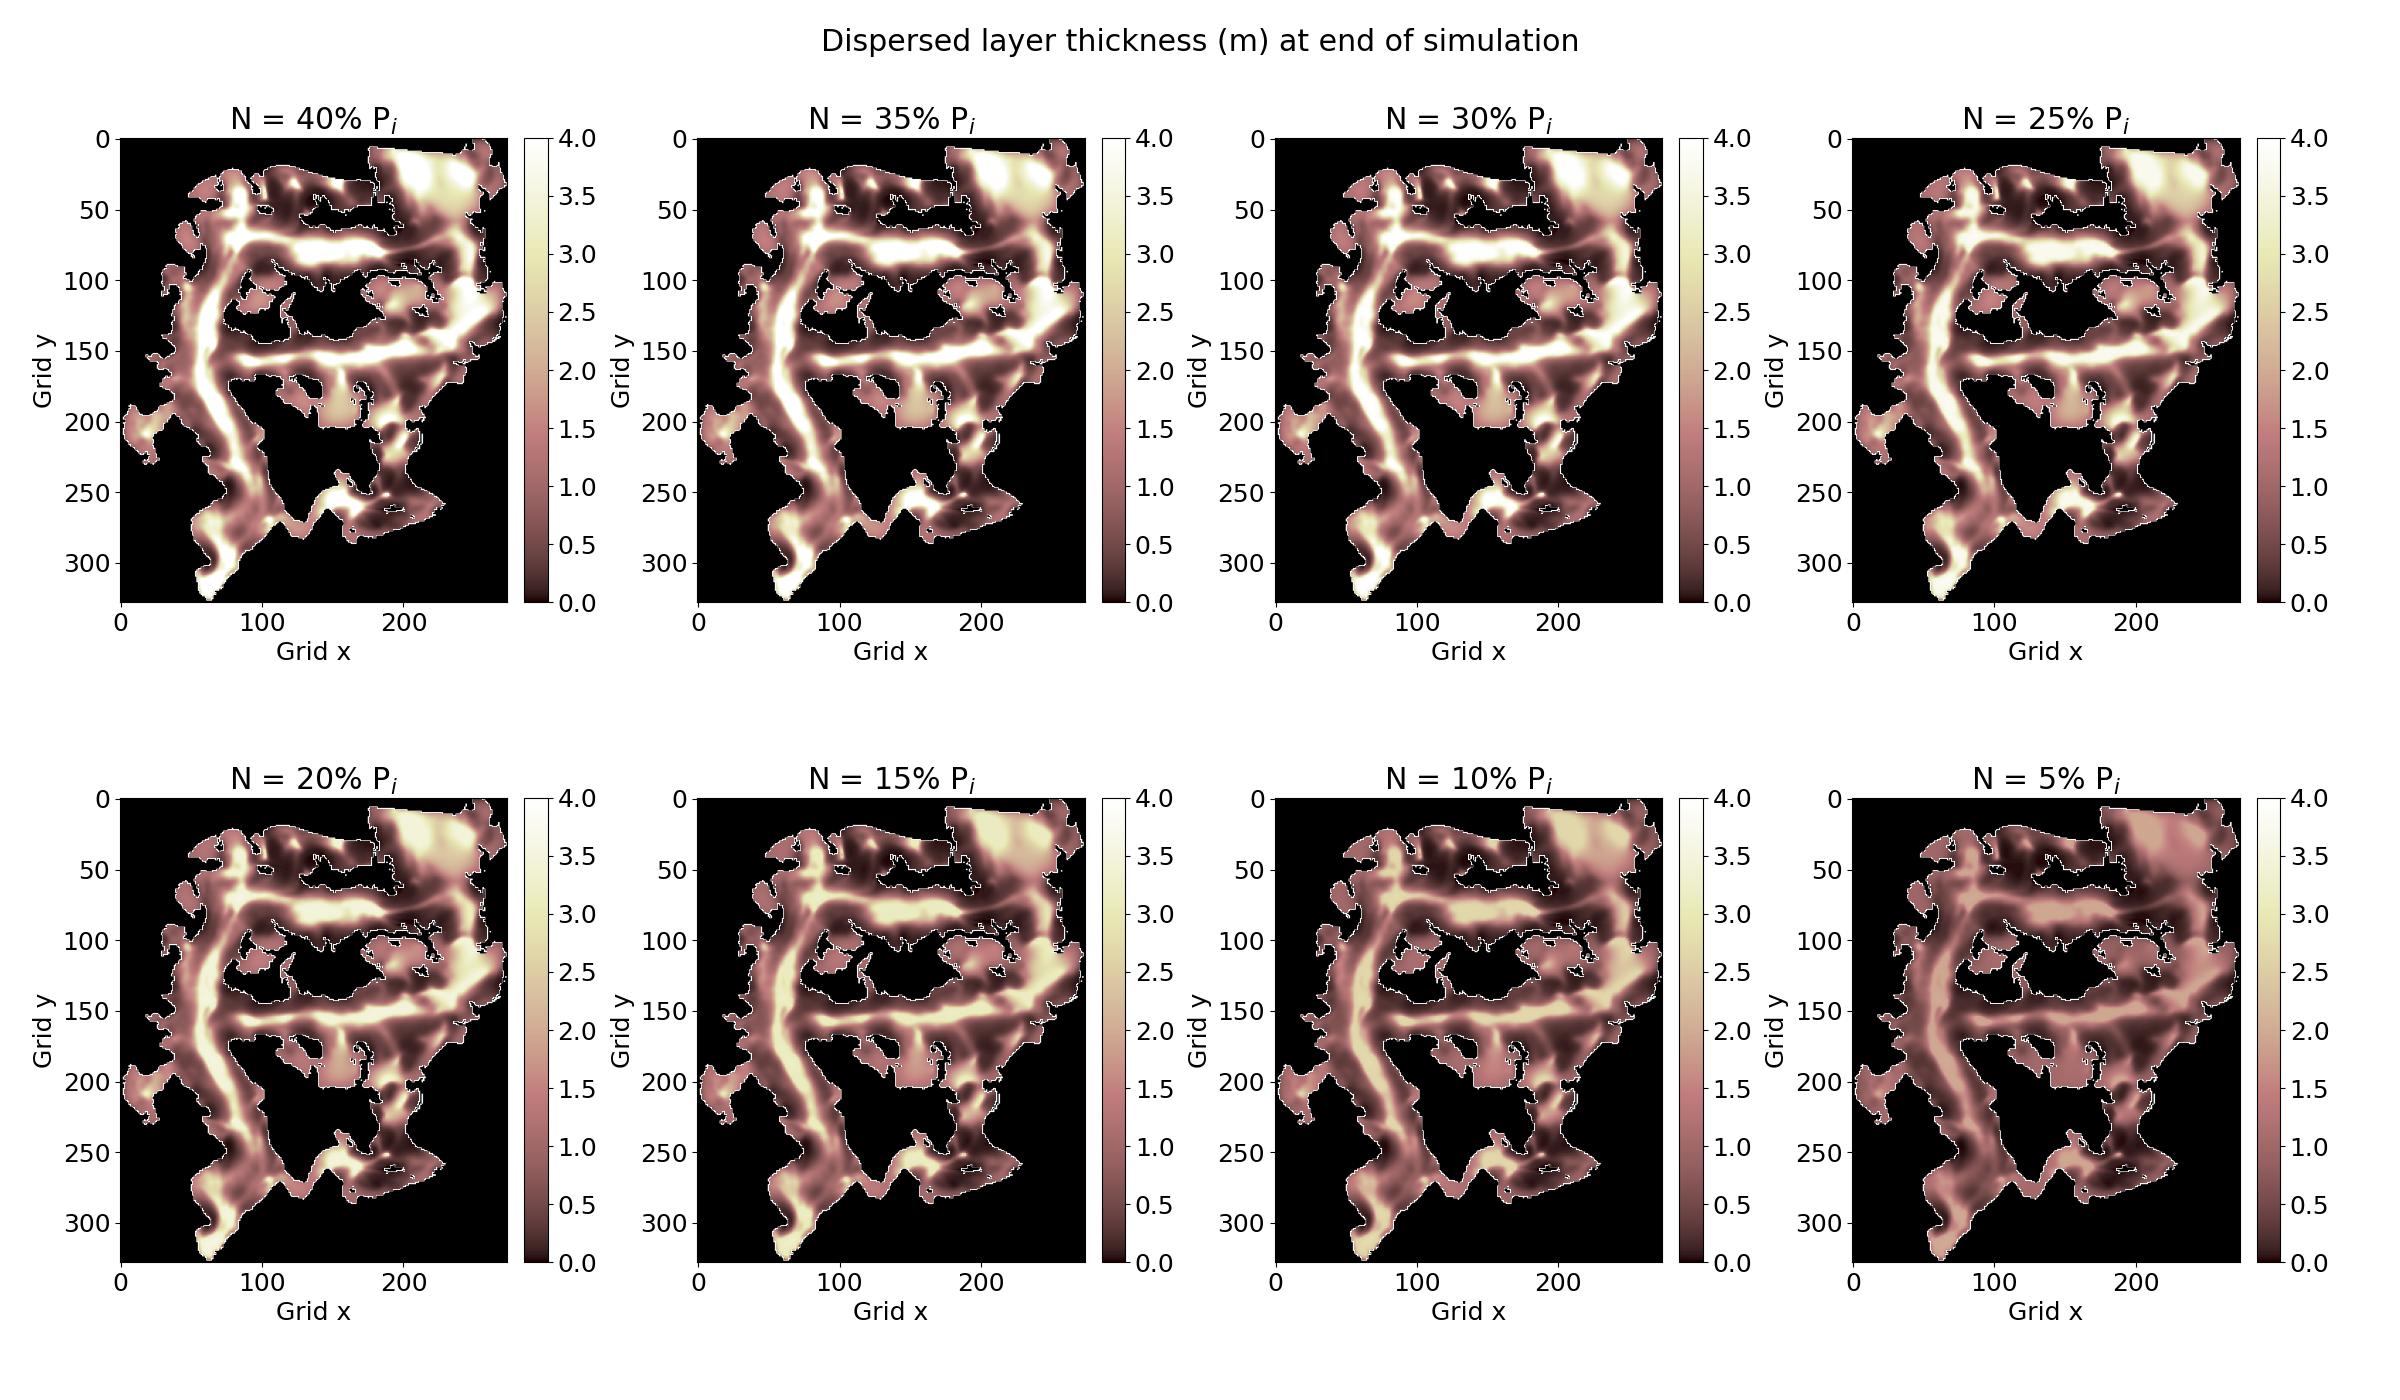
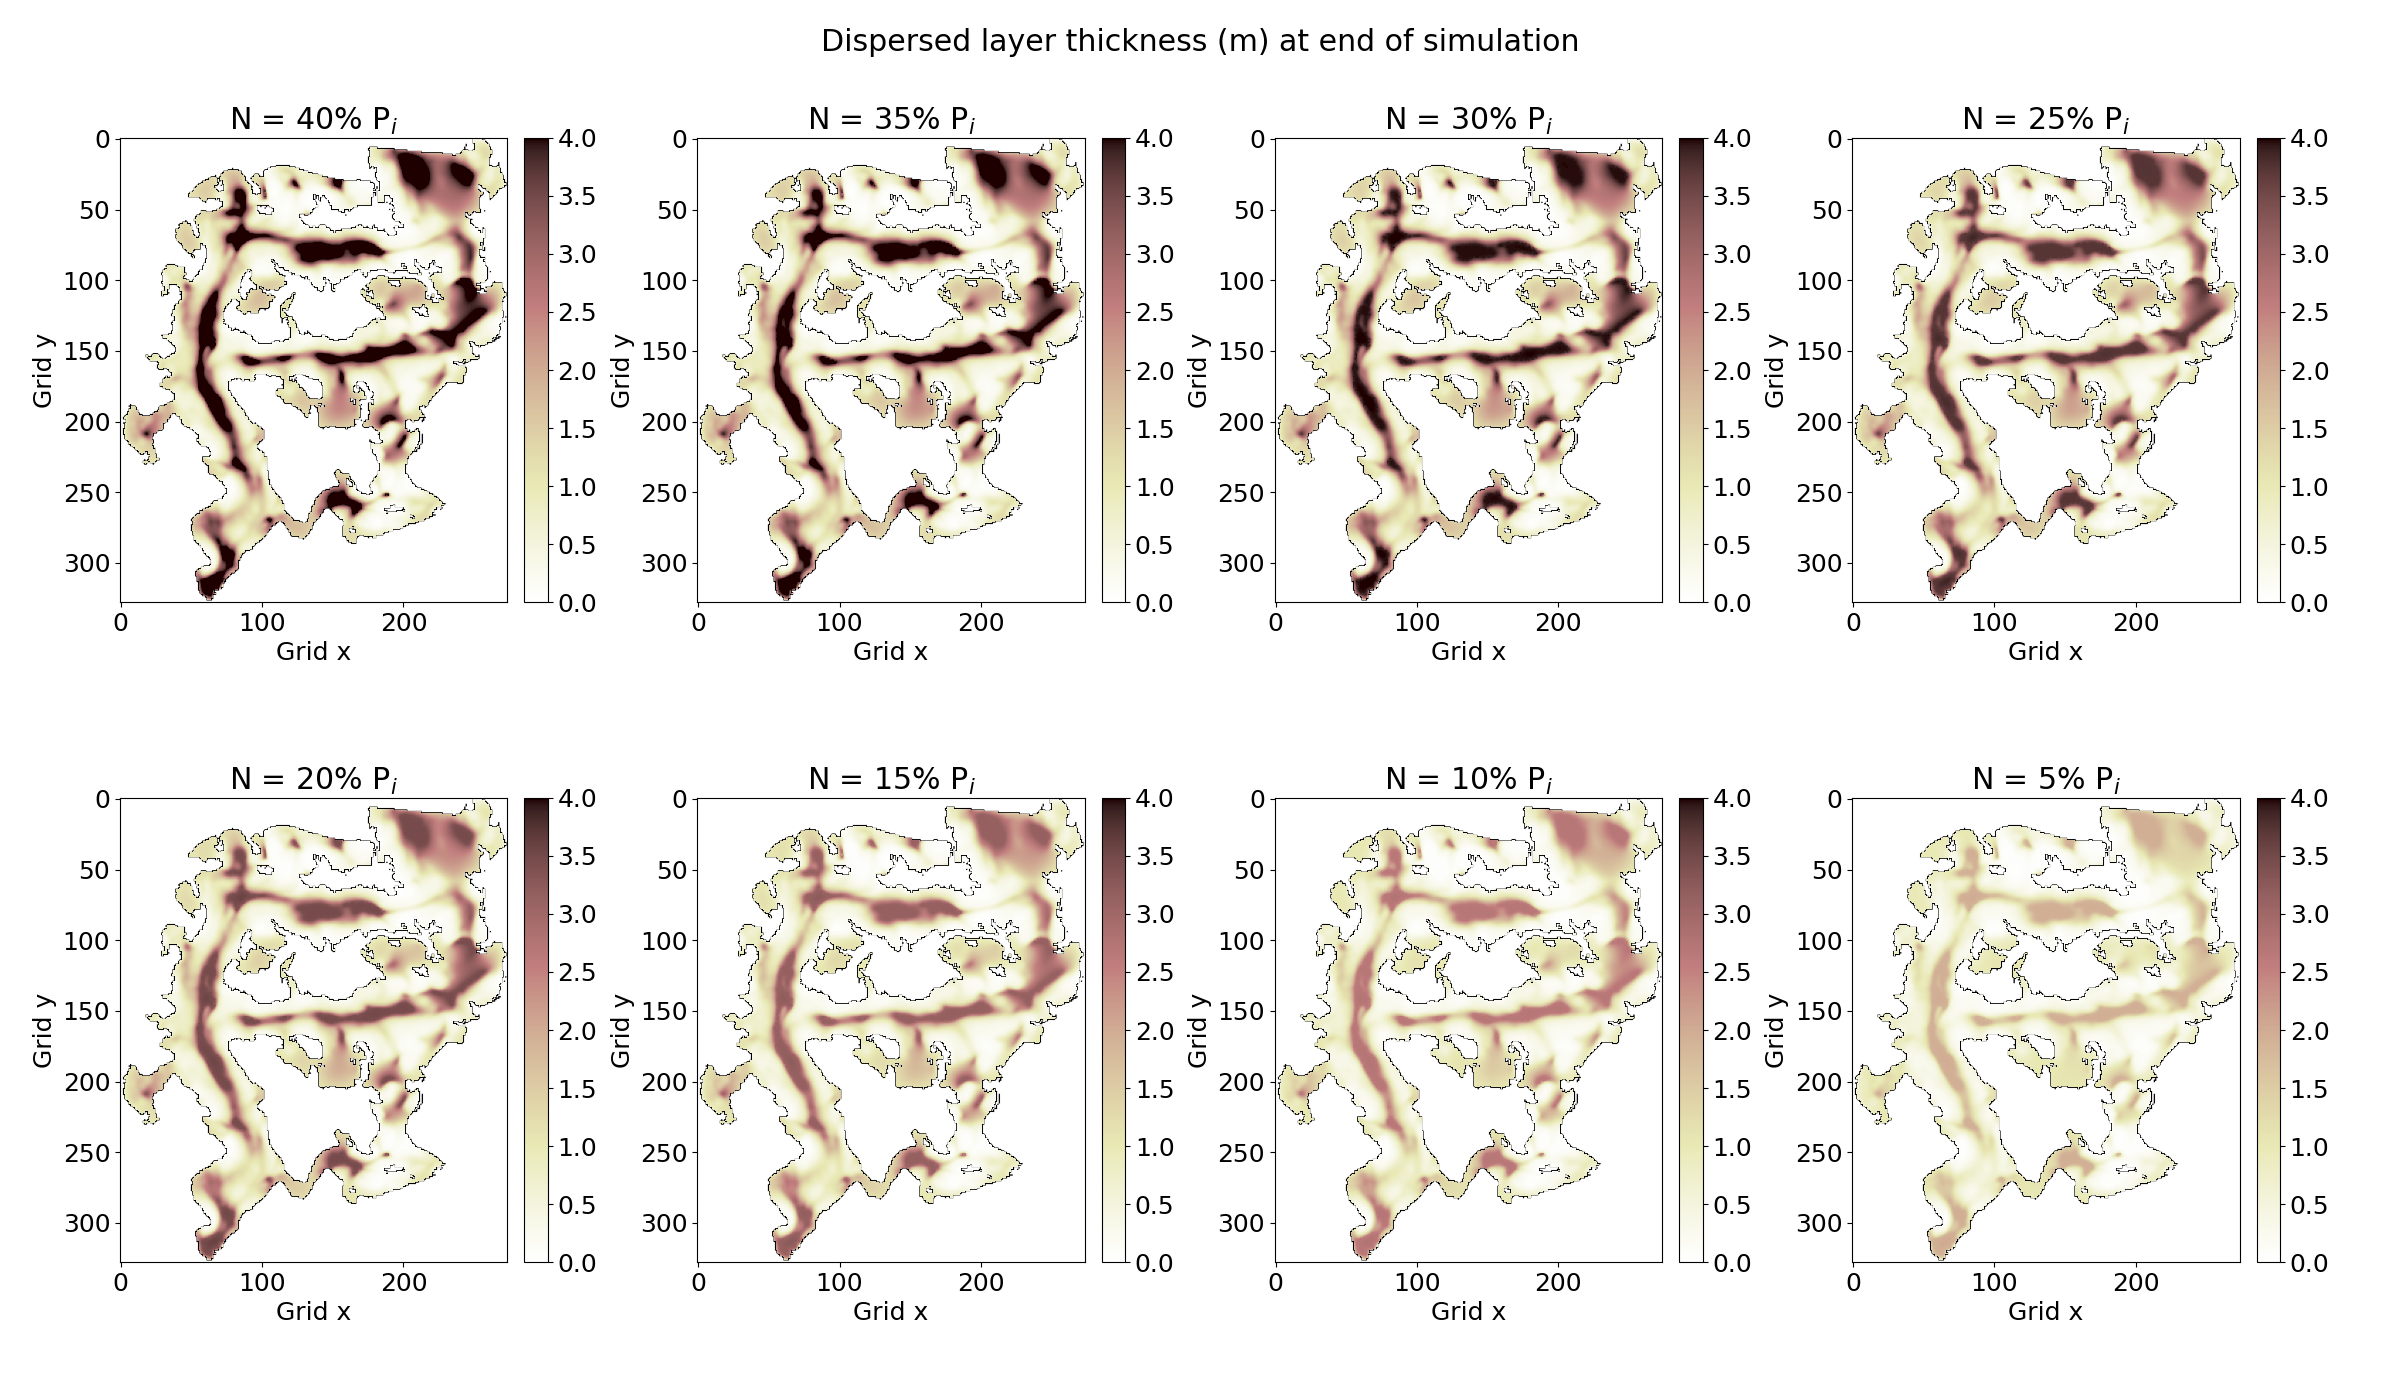
Change figure details

diff --git a/experiments/static-effective-pressure/plot-experiments.py b/experiments/static-effective-pressure/plot-experiments.py
@@ -24,7 +24,7 @@ for N in [60, 65, 70, 75, 80, 85, 90, 95]:
     ax = np.ravel(axes)[a]
     a += 1
 
-    ax.imshow(np.flip(np.reshape(mask, BIS.grid.shape), axis = 0), cmap = 'Greys_r')
+    ax.imshow(np.flip(np.reshape(mask, BIS.grid.shape), axis = 0), cmap = 'Greys')
 
     field = np.flip(np.reshape(fringe, BIS.grid.shape), axis = 0)
     toplot = np.where(
@@ -33,7 +33,7 @@ for N in [60, 65, 70, 75, 80, 85, 90, 95]:
         np.nan
     )
 
-    im = ax.imshow(toplot, cmap = 'pink', vmin = 0, vmax = 8)
+    im = ax.imshow(toplot, cmap = 'pink_r', vmin = 0, vmax = 8)
     plt.colorbar(im, ax = ax, fraction = 0.0543, pad = 0.04)
 
     ax.set_title('N = ' + str(100 - N) + '% P$_i$')
@@ -55,7 +55,7 @@ for N in [60, 65, 70, 75, 80, 85, 90, 95]:
     ax = np.ravel(axes)[a]
     a += 1
 
-    ax.imshow(np.flip(np.reshape(mask, BIS.grid.shape), axis = 0), cmap = 'Greys_r')
+    ax.imshow(np.flip(np.reshape(mask, BIS.grid.shape), axis = 0), cmap = 'Greys')
 
     field = np.flip(np.reshape(disp, BIS.grid.shape), axis = 0)
     icemask = np.flip(np.reshape(BIS.grid.at_node['ice_thickness'], BIS.grid.shape), axis = 0)
@@ -66,7 +66,7 @@ for N in [60, 65, 70, 75, 80, 85, 90, 95]:
         np.nan
     )
 
-    im = ax.imshow(toplot, cmap = 'pink', vmin = 0, vmax = 4)
+    im = ax.imshow(toplot, cmap = 'pink_r', vmin = 0, vmax = 4)
     plt.colorbar(im, ax = ax, fraction = 0.0543, pad = 0.04)
 
     ax.set_title('N = ' + str(100 - N) + '% P$_i$')
